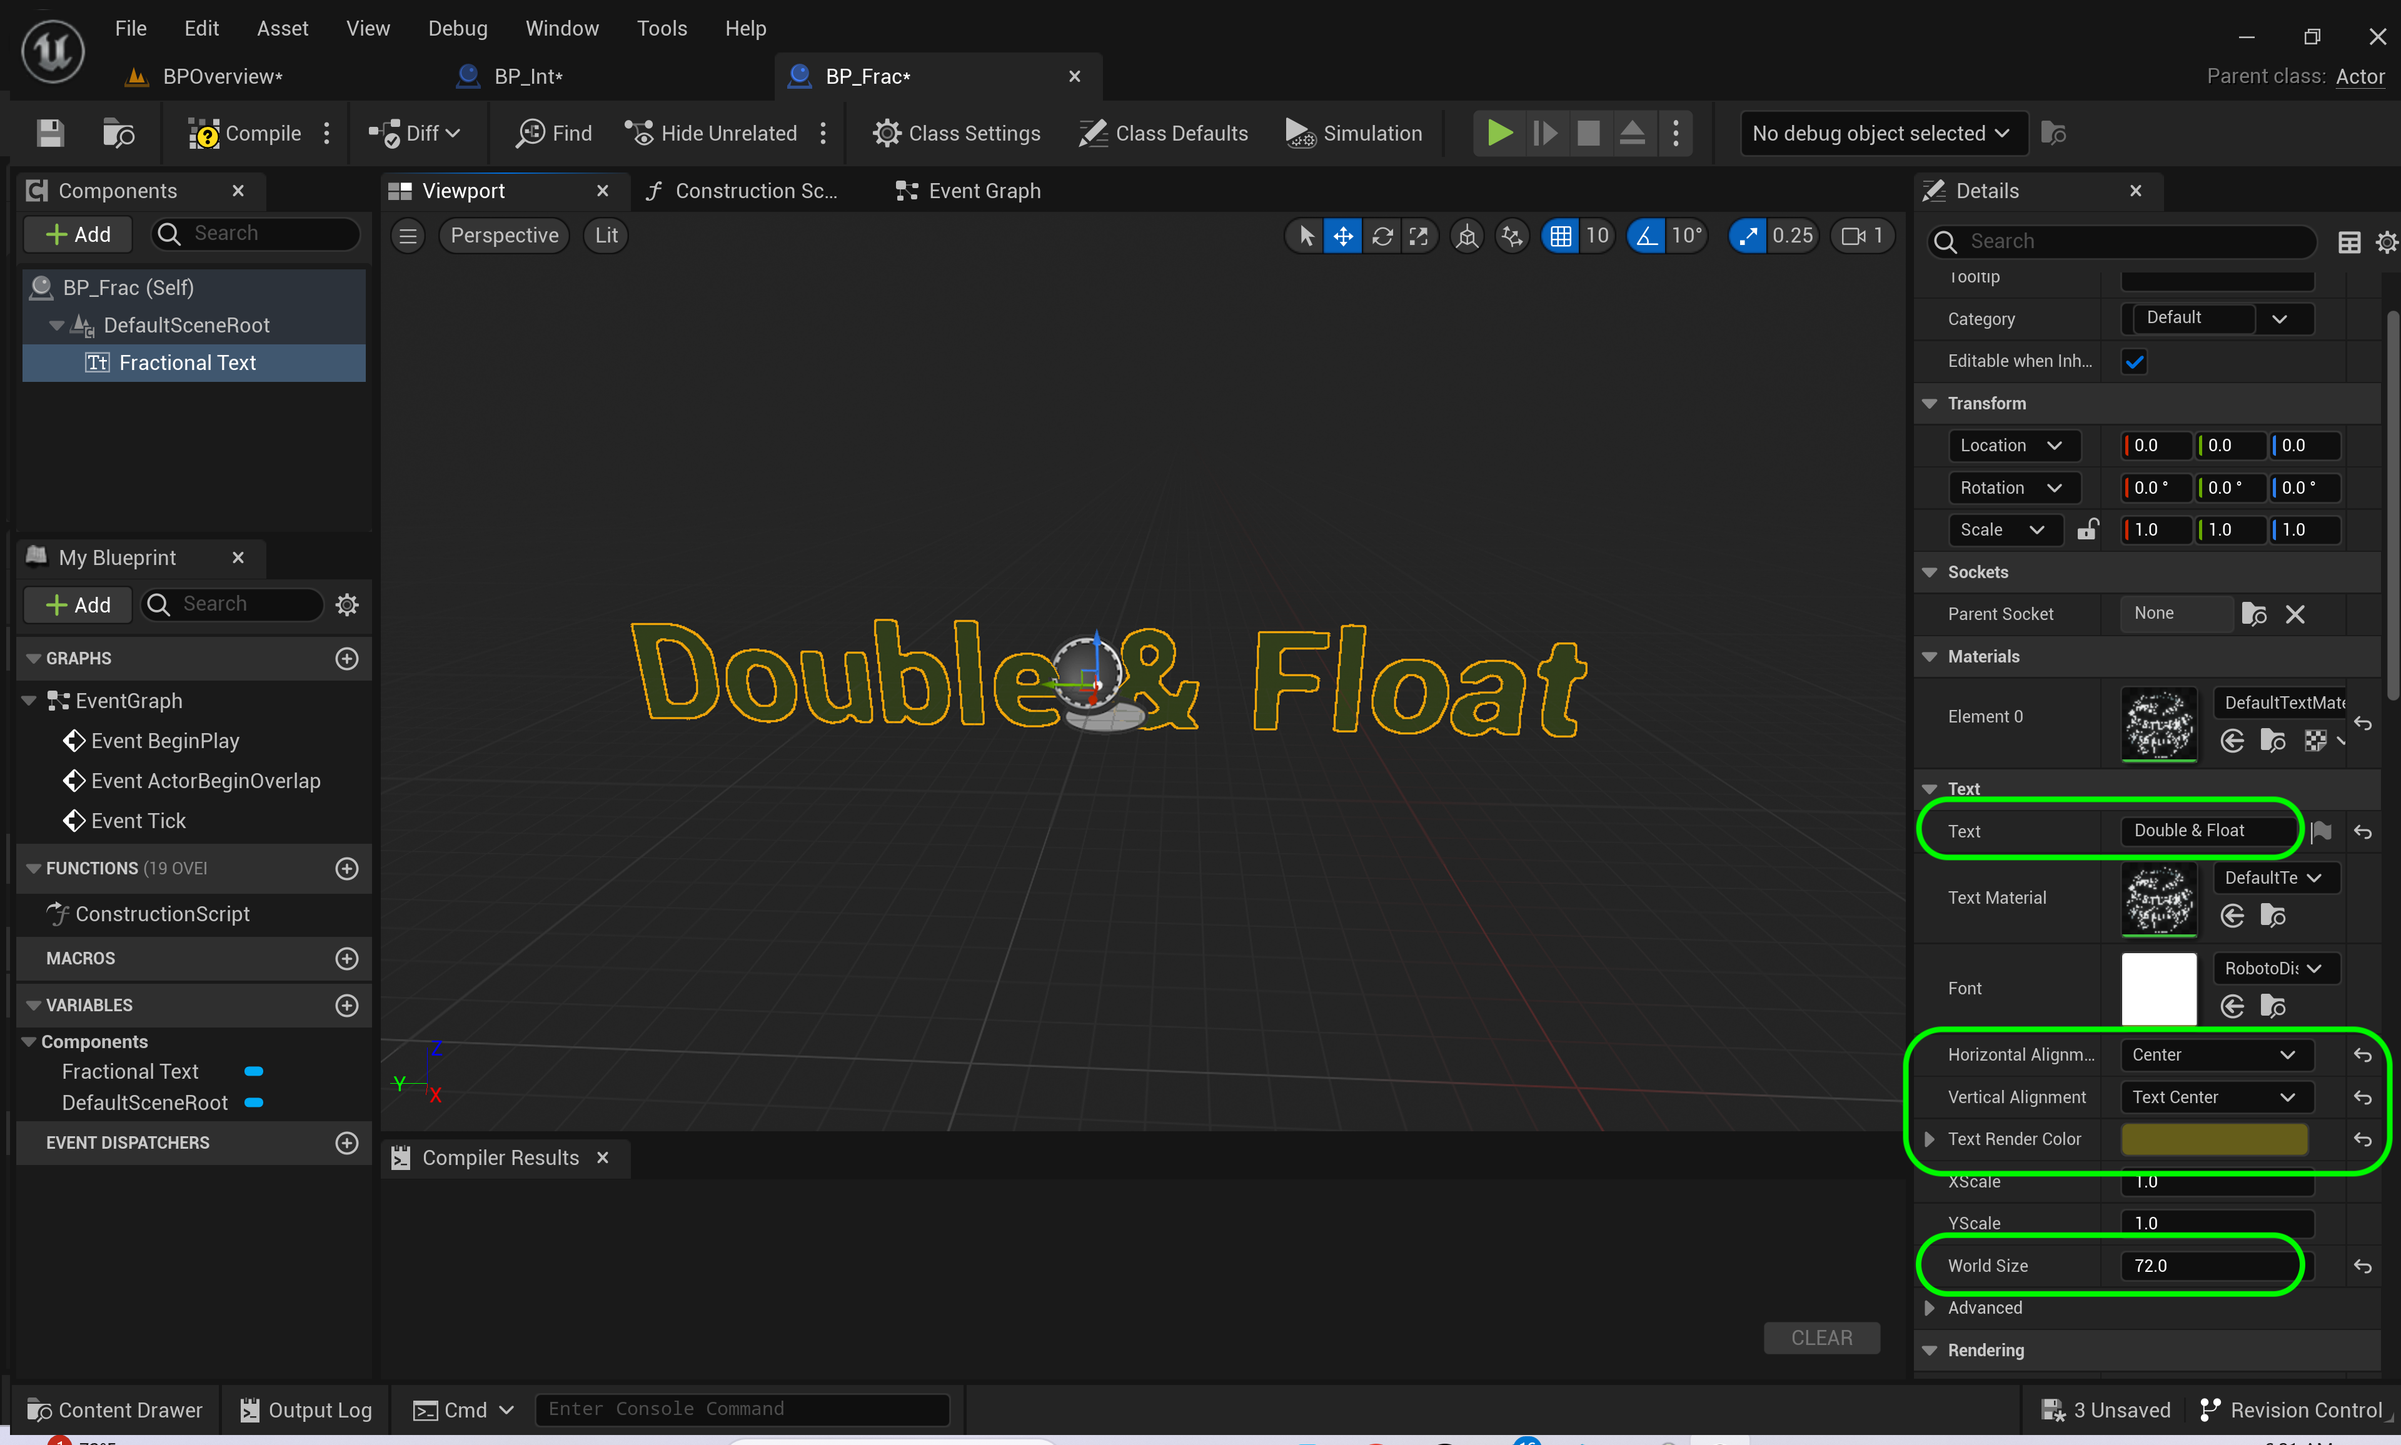
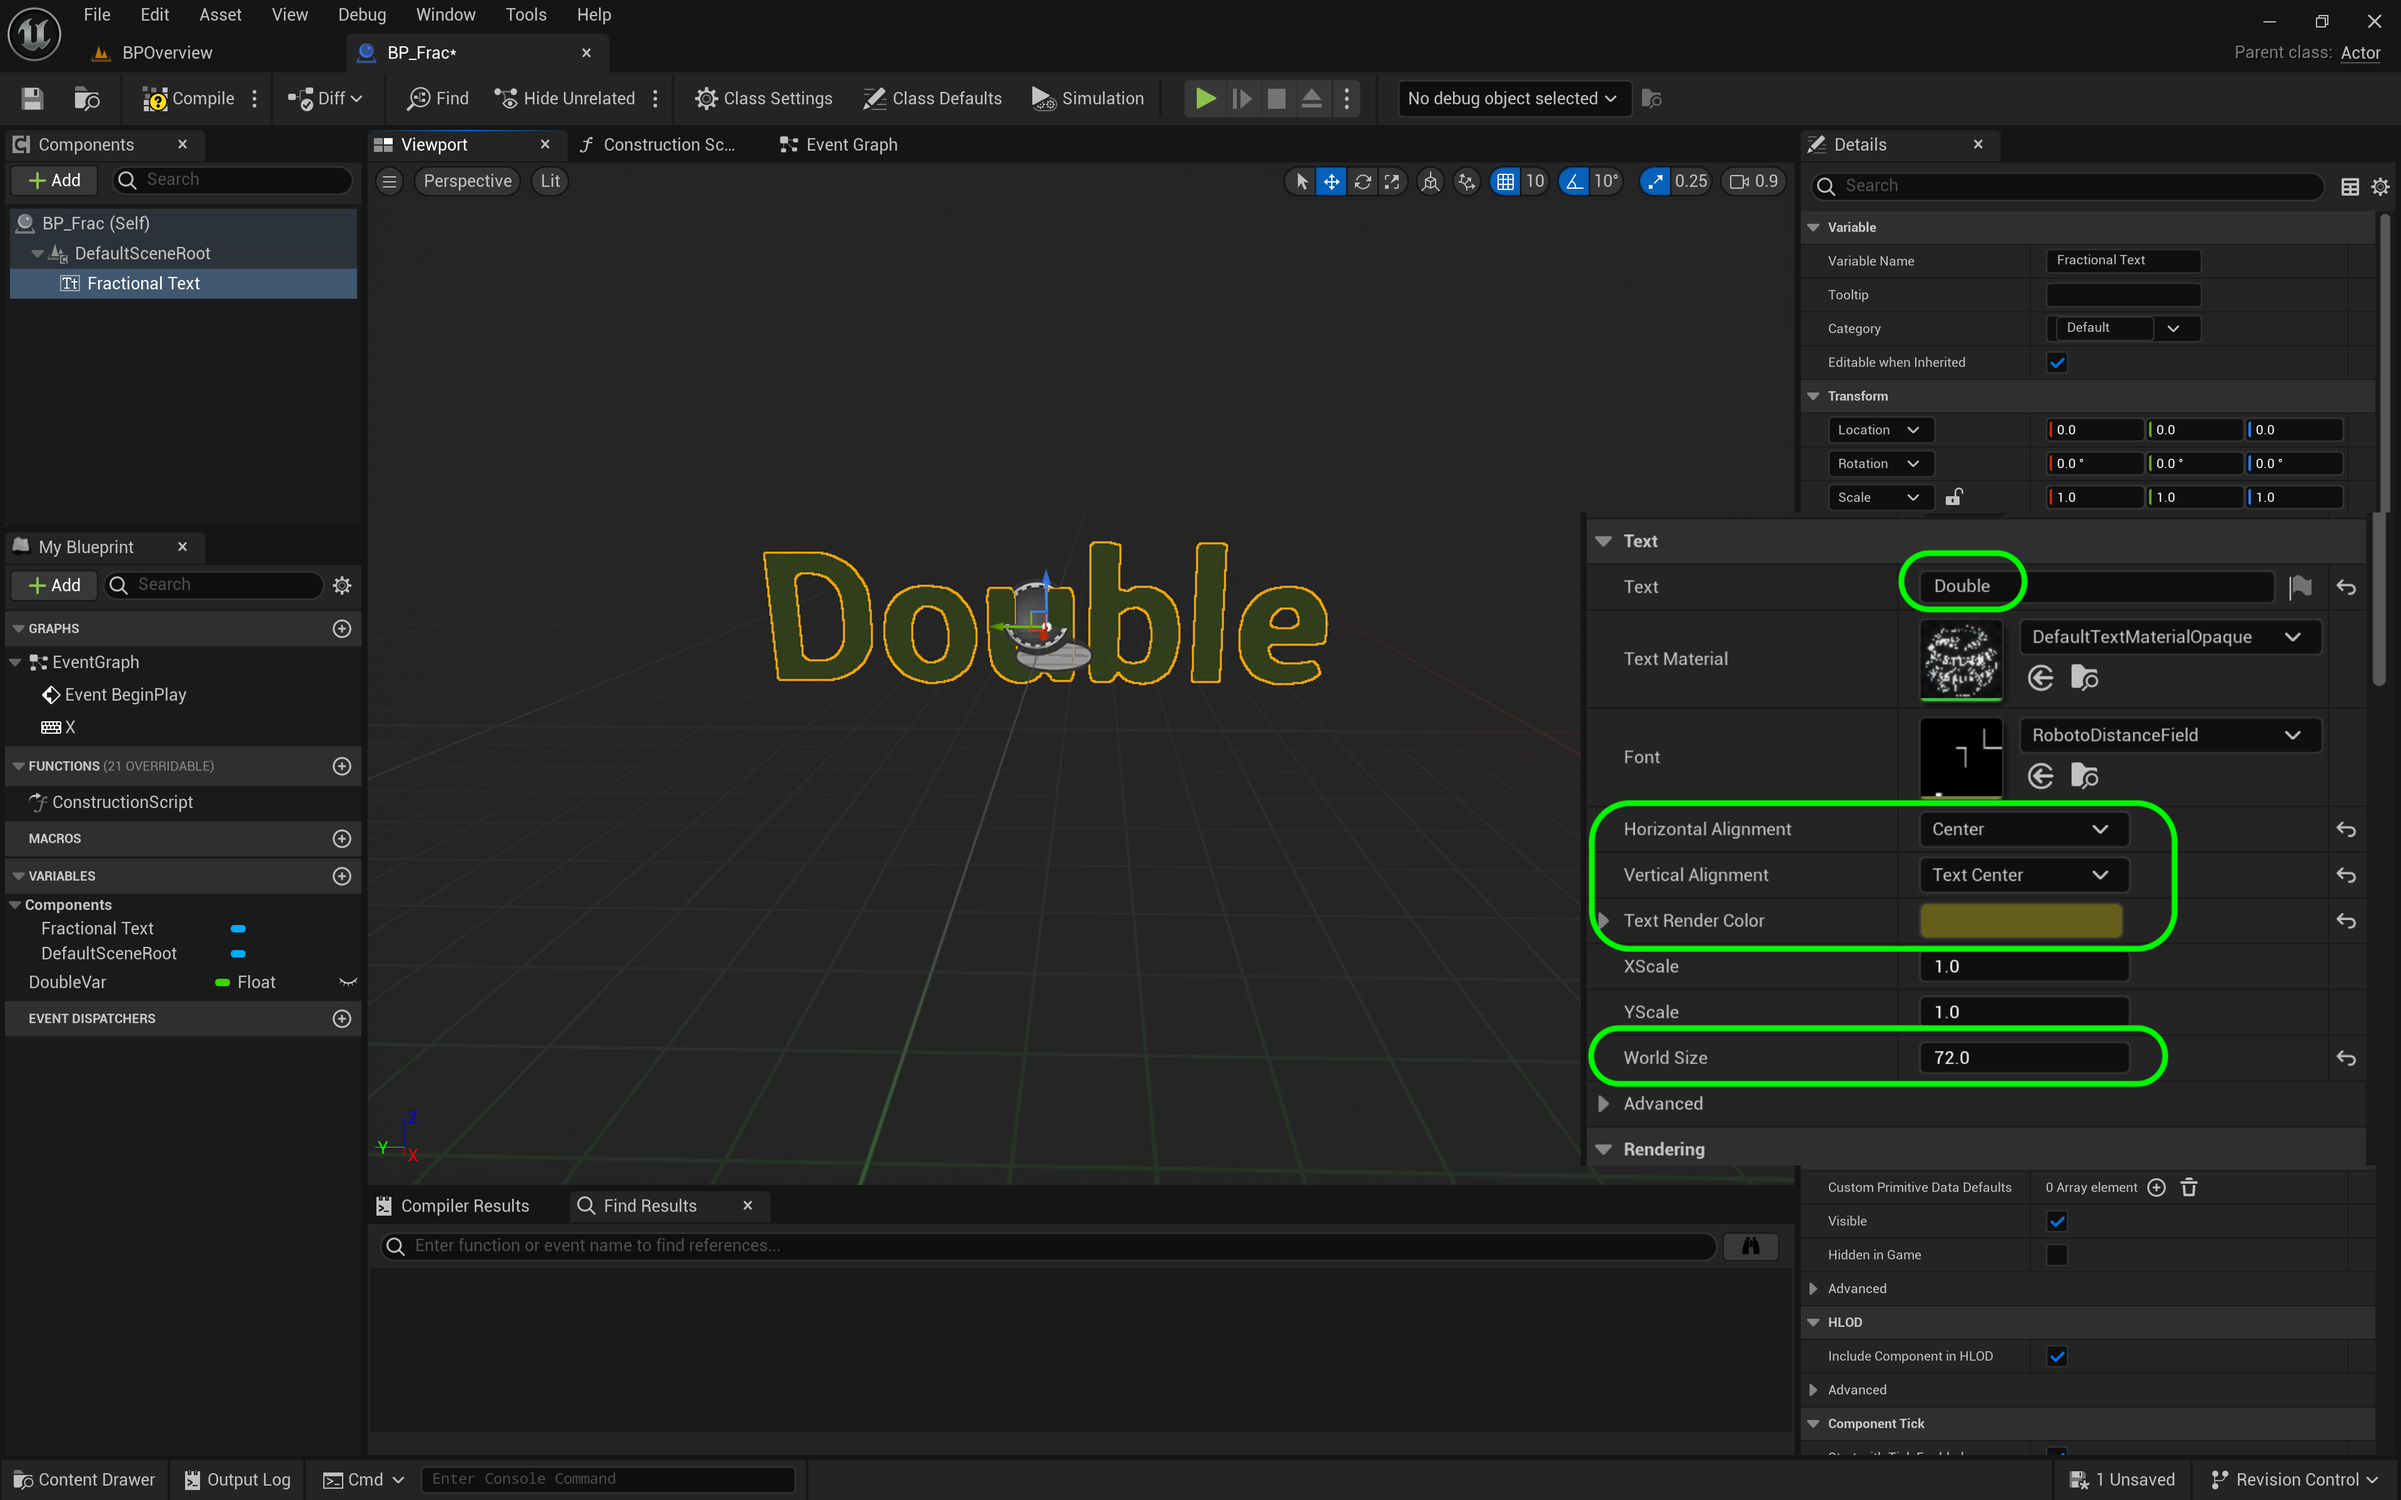
Updating to 5.3

diff --git a/fractions/README.md b/fractions/README.md
@@ -6,7 +6,7 @@
 
 ![](../images/line3.png)
 
-The big change in **Unreal Engine 5** is the introduction of **double** precision floats in blueprints.  The documentation states that when a **float** is selected in the blueprint - at compile time it will determine whether it is a single `float` or a `double`.
+The big change in **Unreal Engine 5** is the introduction of **double** precision floats in blueprints.  In blueprints you can only create doubles (64 bit floats). When declaring variables in C++ you can specify either a float or a double potentially saving memory.  It is advisable in the future to declare your variables in C++, even if you decide to do your main logic within the blueprint.
 
 <br>
 
@@ -30,7 +30,7 @@ Open up **BP_Frac** and press the <kbd>Add</kbd> component button add a **TextRe
 
 ##### `Step 3.`\|`BPOVR`|:small_blue_diamond: :small_blue_diamond: :small_blue_diamond:
 
-Copy and paste the color of the text from **BP_Int** to **BP_Frac** so you have the exact text color (you can <kbd>cntl-c</kbd> (copy) and <kbd>cont-v</kbd> (paste) any literal in a blueprint). Change the **World Size** to `72` and ceter both the **Horizontal Alignment** and **Vertical Alignment**.  Change the **Text** to `Double & Float`.
+Copy and paste the color of the text from **BP_Int** to **BP_Frac** so you have the exact text color (you can <kbd>cntl-c</kbd> (copy) and <kbd>cont-v</kbd> (paste) any literal in a blueprint). Change the **World Size** to `72` and ceter both the **Horizontal Alignment** and **Vertical Alignment**.  Change the **Text** to `Double`.
 
 ![format text and change to Double & Float](images/doubleAndFloat.png)
 
@@ -54,7 +54,7 @@ Connect the **Execution Pin** between **Begin Play** and **Set Text** nodes. The
 
 ##### `Step 6.`\|`BPOVR`| :small_orange_diamond: :small_blue_diamond:
 
-Create a new **Float** variable and call it `DoubleVar`.  In **Unreal 5** the float defaults to **double**.  The documentation says it decides at compile time to be a float or a double.  Drag **DoubleVar** onto the graph then put the curson on top of the output pin.  You will see type **double** in the tooltip.  Drag off of **DoubleVar** and select **To Text(Float)**. Press the <kbd>Compile</kbd> button and set the default float.  In this version I can only enter a *float* amount of digits and not the full 17 digits of a double. I assume this will be addressed.
+Create a new **Float** variable and call it `DoubleVar`.  In **Unreal 5** the float defaults to **double**.  If you wanted to use a float, you need to create that variable in C++. Drag the **DoubleVar** onto the graph then put the curson on top of the output pin.  You will see type **double** in the tooltip.  Drag off of **DoubleVar** and select **To Text(Float)**. Press the <kbd>Compile</kbd> button and set the default float.  In this version I can only enter a *float* amount of digits and not the full 17 digits of a double. I assume this will be addressed in the future.
 
 ![add DoubleVar float then change ToText](images/AddFloat.png)
 
@@ -70,7 +70,7 @@ Connect the **To Text | Return Value** to the ***Set Text | Value**.
 
 ##### `Step 8.`\|`BPOVR`| :small_orange_diamond: :small_blue_diamond: :small_blue_diamond: :small_blue_diamond:
 
-Go to the game and add **BP_Frac** to the room and place it on top of the **Int** leaving enough room between the classes.  Rotate the actor to face the camera.
+Go to the game and add **BP_Frac** to the room and place it next to the **Int** leaving enough room between the classes.  Rotate the actor to face the camera.
 
 ![add double float to game](images/addDoubleFloatToLvl.png)
 
@@ -187,8 +187,6 @@ Connect the **To Text | Return Value** and connect it to **Set Text | Value**.  
 Now you will not be able to get the **X** event unless you allow the actor to receive input.  Select the **PB_Frac(Self)** top component and turn **Auto Receive Input** to `Player0`.
 
 ![set auto receive input](images/absorbInput.png)
-
-![](../images/line2.png)
 
 ![](../images/line2.png)
 

diff --git a/data-types/README.md b/data-types/README.md
@@ -92,7 +92,7 @@ Call the variable `Year`.
 
 ##### `Step 8.`\|`BPOVR`| :small_orange_diamond: :small_blue_diamond: :small_blue_diamond: :small_blue_diamond:
 
-Drag a **Get IntegerTexzt** to the graph.  Connect the **Year** integer output pin to the **Set Text | Value** node.  It will add a **To Text(Integer)** node to cast the int to a text format. Press the <kbd>Compile</kbd> button.
+Drag a **Get IntegerText** to the graph.  Connect the **Year** integer output pin to the **Set Text | Value** node.  It will add a **To Text(Integer)** node to cast the int to a text format. Press the <kbd>Compile</kbd> button.
 
 ![connect year to set text node](images/connectTextPins.png)
 
